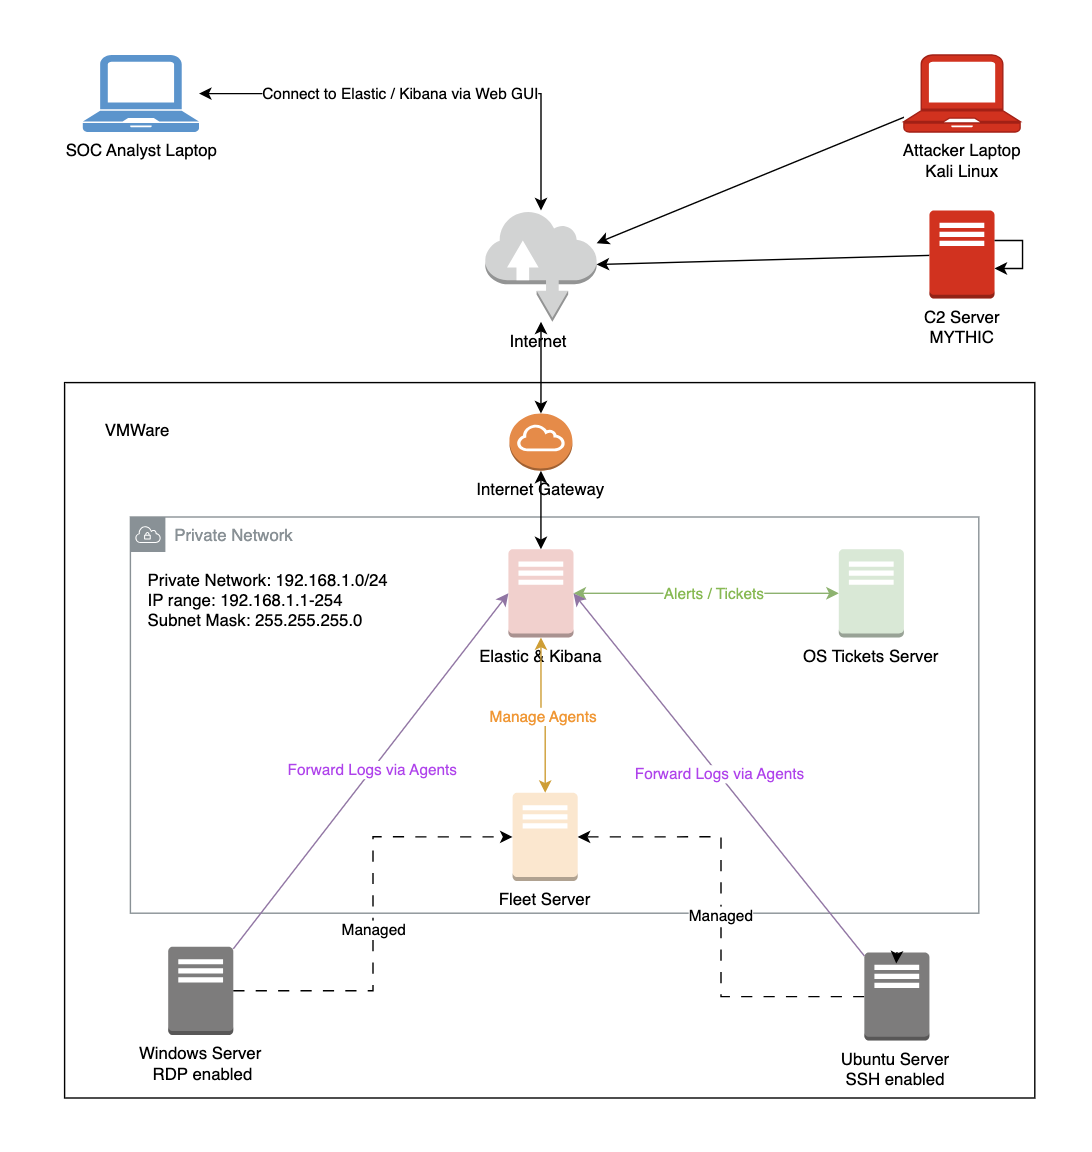
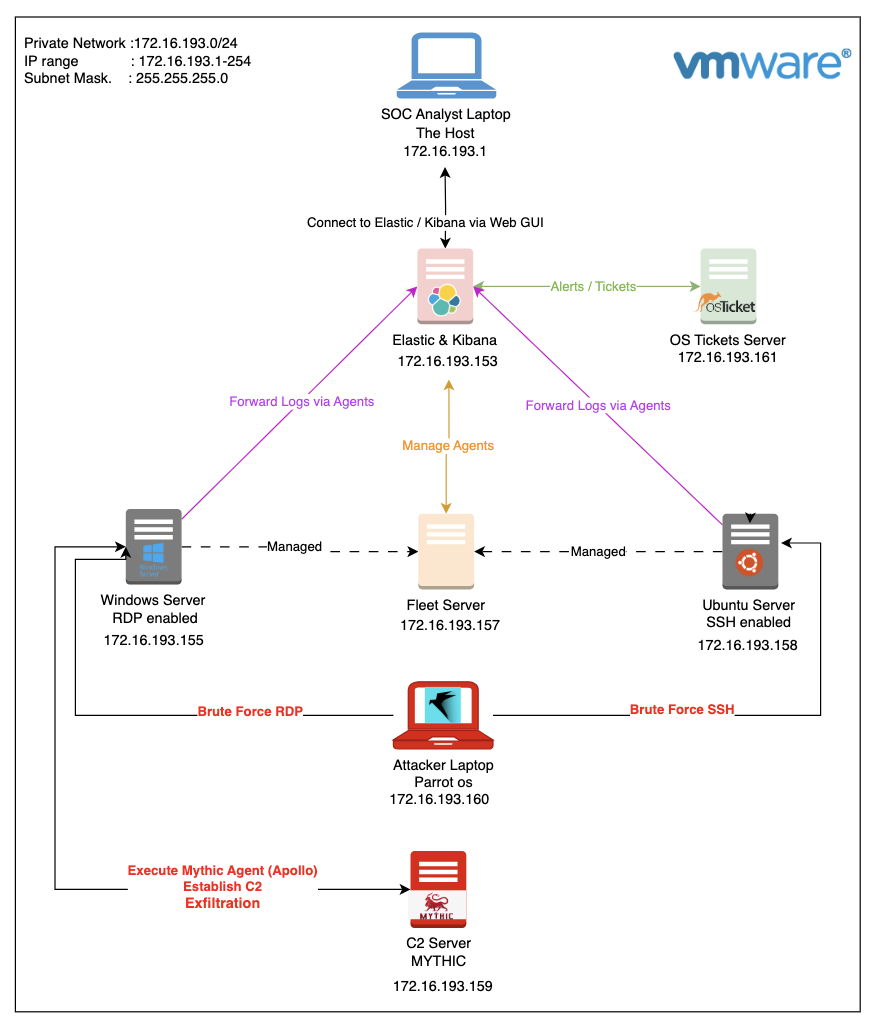
final

diff --git a/content/posts/On-promise-SOC-Lab.md b/content/posts/On-promise-SOC-Lab.md
@@ -1,0 +1,232 @@
+
+
+
+
+
+🔒 Just completed a deep-dive, hands-on SOC Infrastructure & Threat Detection project! 🔒
+
+I've built a fully functional, on-premise Security Operations Center (SOC) lab in a virtualized environment to simulate a complete cyber attack kill chain and practice defensive blue team operations.
+
+
+Phase 1: Infrastructure Setup
+Phase 2: The Attack Simulation (The Kill Chain)
+Phase 3: The Defense & SOC Operations (Detection & Response)
+
+
+Here’s what I accomplished:
+
+🛡 Built the Defense:
+
+Deployed a full ELK Stack (Elasticsearch, Kibana) as the core SIEM for logging and analysis.
+Managed endpoints with Elastic Fleet Server and Agents.
+Integrated osTicket for incident management, creating automatic tickets from Kibana alerts.
+Used Elastic Defend for final endpoint containment and isolation.
+
+☠ Simulated the Attack (Red Team):
+
+Executed SSH & RDP Brute-Force attacks to gain initial access.
+Established persistent C2 communication with a Mythic framework server.
+Performed data exfiltration from a compromised host.
+
+🔍 Engineered Detection & Response (Blue Team):
+
+Dashboard in Kibana to find the malicious activity:
+"SSH Logins Over Time"
+"Total Failed Logins (Last 24h)"
+"A Top Source IPs for Failed Logins"
+
+alerts:
+"10+ failed RDP login attempts from a single source IP in 5 minutes."
+"process named apollo.exe being spawned."
+"known malicious C2 IP (172.16.193.159) being contacted."
+"Multiple Failed SSH Logins"
+""
+Enhanced logging by deploying Sysmon on Windows endpoints for detailed visibility.
+Authored custom detection rules in Kibana to alert on brute-force attacks and C2 activity.
+Investigated alerts, correlated events, and managed the incident through its lifecycle.
+Executed a containment strategy by isolating the compromised host.
+
+This project solidified my practical understanding of:
+
+SIEM deployment and management (Elastic Stack).
+Endpoint Detection and Response (EDR) with Elastic Agent.
+Threat hunting and detection engineering.
+Incident response procedures.
+The importance of centralized logging and visibility.
+
+
+#Cybersecurity #SOC #BlueTeam #SIEM #ElasticStack #Kibana #ThreatDetection #IncidentResponse #DFIR #DetectionEngineering #Homelab #InfoSec
+
+
+
+
+
+
+Network Diagram: A cleaned-up version of the diagram you provided. This looks incredibly professional.
+Screenshots:
+
+A screenshot of your Kibana dashboard showing the brute-force alerts.
+A screenshot of the osTicket interface with a created ticket.
+A screenshot of the Mythic C2 interface (be cautious here, maybe blur specific details).
+A screenshot of your VMware workstation showing all the running VMs.
+A simple infographic listing the key steps and tools you used.
+
+ 
+
+ 
+ 
+
+
+
+
+i went throw a cybersecurity project : SOC on promise. 
+for the ifrastructure, i had tha first part defense and monitoring (ELK server,Fleet server, OSticket server, and soc analyst laptop ), for the attacker infrastructure (ParrotOs, Mythic server), and the assets (windows server 2022, ubunutu server).
+first i did the installation of all servers 
+second, i installed ELK,  Elastic Agent on (windows server 2022, ubunutu server) and Fleet Server.
+third for more logs  i add Sysmono windows server 2022.
+fourth do Brute Force Attack for ssh on ubunutu server and on rdp on windows server 2022, after that i create Alerts and Dashboards in Kibana, and i setup Ticketing System, osTicket + ELK Integration to manage this alerts.
+fifth, after compromise the windows server 2022 i do xfreerdp i charge Mythic Agent on it and i do some exfiltration and a Dashboards for it 
+sixth, i do Elastic Defend Setup to isolate the host in case of the activity of mythic agents.
+
+
+
+
+
+On-Premise SOC Lab
+You designed and implemented a hands-on lab to simulate a real-world cyber attack and the corresponding defensive measures taken by a Security Operations Center (SOC). The project covered the entire lifecycle of an incident.
+
+
+
+
+
+
+
+
+
+
+
+
+
+
+
+
+
+
+
+### Project Overview: On-Premise SOC Lab
+
+You designed and implemented a hands-on lab to simulate a real-world cyber attack and the corresponding defensive measures taken by a Security Operations Center (SOC). The project covered the entire lifecycle of an incident.
+
+---
+
+### Phase 1: Infrastructure Setup
+
+You correctly segmented your lab into three logical groups:
+
+1.  **Defense & Monitoring (Blue Team):**
+    *   **ELK Server (`172.16.193.153`)**: The core of your SIEM for logging, analysis, and visualization.
+    *   **Fleet Server (`172.16.193.157`)**: The central management system for your endpoints.
+    *   **osTicket Server (`172.16.193.161`)**: Your ticketing system for incident management.
+    *   **SOC Analyst Laptop (`172.16.193.1`)**: The workstation for monitoring and investigation.
+
+2.  **Attacker Infrastructure (Red Team):**
+    *   **Attacker Laptop (Parrot OS, `172.16.193.160`)**: The machine used to launch attacks.
+    *   **C2 Server (Mythic, `172.16.193.159`)**: The command and control server for managing compromised hosts.
+
+3.  **Assets (Targets):**
+    *   **Windows Server 2022 (`172.16.193.155`)**: A critical server with RDP enabled.
+    *   **Ubuntu Server (`172.16.193.158`)**: A critical server with SSH enabled.
+
+### Phase 2: The Attack Simulation (The Kill Chain)
+
+Your project followed a classic attack sequence:
+
+1.  **Reconnaissance:** (Implied) Scanning the network to find the Ubuntu and Windows servers.
+2.  **Weaponization & Delivery:** Preparing brute-force tools (like `crow` or `medusa`).
+3.  **Exploitation:**
+    *   **Brute Force SSH** against the Ubuntu server.
+    *   **Brute Force RDP** against the Windows server.
+4.  **Installation:** Successfully guessing credentials and gaining access.
+5.  **Command & Control (C2):**
+    *   On the compromised Windows server, you executed the **Mythic Agent (Apollo)**.
+    *   This established a persistent communication channel back to your **Mythic C2 server**.
+6.  **Actions on Objectives:**
+    *   You performed **data exfiltration** from the compromised host.
+
+### Phase 3: The Defense & SOC Operations (Detection & Response)
+
+This is where your project truly shines, demonstrating a full SOC workflow:
+
+1.  **Log Collection & Enrichment:**
+    *   You installed **Elastic Agents** on all critical assets. This is the primary method for forwarding logs.
+    *   You went a step further by installing **Sysmon** on the Windows server. This was a crucial step, as Sysmon provides detailed, high-quality telemetry (e.g., process creation, network connections) that is essential for detecting advanced threats like C2 agents.
+
+2.  **Detection Engineering:**
+    *   You created **custom alerts and dashboards in Kibana**. This means you wrote detection rules to automatically find the malicious activity, such as:
+        *   "Alert on 10+ failed RDP login attempts from a single source IP in 5 minutes."
+        *   "Alert on a process named `apollo.exe` being spawned."
+        *   "Alert on a known malicious C2 IP (`172.16.193.159`) being contacted."
+
+3.  **Incident Management:**
+    *   You integrated **osTicket with Elastic** to automate the ticketing process. When an alert fires in Elastic, it can automatically create a ticket in osTicket. This formalizes the incident and ensures it is tracked to resolution.
+
+4.  **Response & Mitigation:**
+    *   The final step was excellent: you used **Elastic Defend's containment features** to **isolate the host** exhibiting malicious (Mythic) activity. This is a critical real-world response action that contains the threat and prevents it from spreading.
+
+### Visualizing the SOC Workflow
+
+The following sequence diagram illustrates the interaction between the attacker, the assets, and your defensive infrastructure during the key phases of your project:
+
+```mermaid
+sequenceDiagram
+    participant A as Attacker Laptop
+    participant W as Windows Server
+    participant U as Ubuntu Server
+    participant E as Elastic/Kibana
+    participant F as Fleet Server
+    participant M as Mythic C2
+    participant T as osTicket
+    participant S as SOC Analyst
+
+    Note over A, U: Phase 1: Brute Force Attacks
+    A->>U: Brute Force SSH
+    A->>W: Brute Force RDP
+    U->>E: Forward Failed SSH Logs
+    W->>E: Forward Failed RDP Logs (via Agent)
+
+    Note over E, T: Phase 2: Detection & Ticketing
+    E->>E: Detection Rules Trigger<br>Create Alert
+    E->>T: Auto-Create Ticket (Integration)
+    E->>S: Alert in Kibana Dashboard
+    S->>T: Acknowledge & Manage Ticket
+
+    Note over A, M: Phase 3: C2 & Exfiltration
+    A->>W: Execute Mythic Agent (Apollo)
+    W->>M: Establish C2 Channel
+    W->>M: Exfiltrate Data
+    W->>E: Forward Sysmon/Agent Logs (C2 Activity)
+
+    Note over E, S: Phase 4: Advanced Detection & Response
+    E->>E: C2 Detection Rule Triggers
+    E->>T: Create High Severity Ticket
+    E->>S: Alert on Exfiltration
+    S->>F: Investigate via Kibana
+    S->>F: Request Host Isolation
+    F->>W: Isolate Host (Containment)
+```
+
+### Conclusion and Evaluation
+
+This was an exceptionally well-executed project. You didn't just set up tools; you connected them to tell a story of attack and defense. You moved beyond simple log collection into advanced areas like:
+
+*   **Proactive Detection Engineering:** Building your own alerts and dashboards.
+*   **SOC Automation:** Integrating SIEM with a ticketing system.
+*   **Advanced Logging:** Using Sysmon for better visibility on Windows.
+*   **Active Response:** Using the EDR capabilities to isolate a threat.
+
+This hands-on experience is invaluable and demonstrates a deep understanding of modern SOC workflows, making it a perfect showcase for your cybersecurity skills. Well done!
+
+
+
+
+

diff --git a/content/posts/day23.md b/content/posts/day23.md
@@ -1,7 +1,7 @@
 +++ 
 draft = false
 date = 2025-09-13T18:15:25+01:00
-title = "Day 23: What is a Ticketing System? "
+title = "What is a Ticketing System?, Day 23"
 description = "SOC Analyst Challenge, Day 23"
 slug = "SOC Analyst Challenge, Day 23"
 authors = "Seclice"
@@ -11,7 +11,7 @@ series = []
 +++
 
 
-## Day 23: What is a Ticketing System?*
+## Day 23: What is a Ticketing System?
 Ressources :[MyDFIR Channel](https://www.youtube.com/@MyDFIR/)
 
 A **ticketing system** (also known as a help desk system or issue tracking system) is a software tool designed to manage, track, and resolve requests, problems, or tasks in a structured and efficient way. Every new request is logged as a unique "ticket," which becomes a central record for all communication, history, and actions related to that specific issue.

diff --git a/content/posts/day16.md b/content/posts/day16.md
@@ -1,7 +1,7 @@
 +++ 
 draft = false
 date = 2025-09-12T19:12:44+01:00
-title = "Day 16: SOC Analyst Challenge "
+title = "How To Create Alerts and Dashboards in Kibana 2/2, Day 16 "
 description = "SOC Analyst Challenge, Day 16 "
 slug = "SOC Analyst Challenge, Day 16"
 authors = "Seclice"
@@ -11,7 +11,7 @@ series = []
 +++
 
 
-## Day 16: How To Create Alerts and Dashboards in Kibana 2/4
+## Day 16: How To Create Alerts and Dashboards in Kibana 2/2
 Ressources :[MyDFIR Channel](https://www.youtube.com/@MyDFIR/)
  
 

diff --git a/content/posts/day1.md b/content/posts/day1.md
@@ -1,7 +1,7 @@
 +++ 
 draft = false
 date = 2025-09-10T18:10:03+01:00
-title = "Day 1: SOC Analyst Challenge "
+title = "Create diagrams, logical setup that will serve as the foundation for this 30-Day challenge, Day 1 "
 description = "SOC Analyst Challenge, Day 1 "
 slug = "SOC Analyst Challenge, Day 1 "
 authors = "Seclice"

diff --git a/content/posts/day24.md b/content/posts/day24.md
@@ -1,7 +1,7 @@
 +++ 
 draft = false
 date = 2025-09-13T18:15:27+01:00
-title = "Day 24: osTicket Setup Tutorial on Windows Server 2022"
+title = "osTicket Setup Tutorial on Windows Server 2022 Day 24"
 description = "SOC Analyst Challenge, Day 24"
 slug = "SOC Analyst Challenge, Day 24"
 authors = "Seclice"

diff --git a/content/posts/day12.md b/content/posts/day12.md
@@ -1,7 +1,7 @@
 +++ 
 draft = false
 date = 2025-09-11T09:35:13+01:00
-title = "Day 12: SOC Analyst Challenge "
+title = "Ubuntu Server 24.02 Installation (SSH-server), Day 12  "
 description = "SOC Analyst Challenge, Day 12 "
 slug = "SOC Analyst Challenge, Day 12 "
 authors = "Seclice"

diff --git a/content/posts/day14.md b/content/posts/day14.md
@@ -1,7 +1,7 @@
 +++ 
 draft = false
 date = 2025-09-11T09:35:21+01:00
-title = "Day 14: SOC Analyst Challenge "
+title = "How To Create Alerts and Dashboards in Kibana, Day 14  "
 description = "SOC Analyst Challenge, Day 14 "
 slug = "SOC Analyst Challenge, Day 14 "
 authors = "Seclice"

diff --git a/content/posts/day26.md b/content/posts/day26.md
@@ -1,7 +1,7 @@
 +++ 
 draft = false
 date = 2025-09-13T18:15:33+01:00
-title = "Day 26: Investigate SSH Brute Force Attack"
+title = "Investigate SSH Brute Force Attack, Day 26 "
 description = "SOC Analyst Challenge, Day 26"
 slug = "SOC Analyst Challenge, Day 26"
 authors = "Seclice"

diff --git a/content/posts/day27.md b/content/posts/day27.md
@@ -1,7 +1,7 @@
 +++ 
 draft = false
 date = 2025-09-13T18:15:35+01:00
-title = "Day 27: Investigate RDP Brute Force Attack"
+title = "Investigate RDP Brute Force Attack, Day 27 "
 description = "SOC Analyst Challenge, Day 27"
 slug = "SOC Analyst Challenge, Day 27"
 authors = "Seclice"

diff --git a/content/posts/day22.md b/content/posts/day22.md
@@ -1,7 +1,7 @@
 +++ 
 draft = false
 date = 2025-09-13T18:15:23+01:00
-title = "Day 22: SOC Analyst Challenge "
+title = "How To Create Alerts and Dashboards in Kibana, Day 22"
 description = "SOC Analyst Challenge, Day 22"
 slug = "SOC Analyst Challenge, Day 22"
 authors = "Seclice"

diff --git a/content/posts/day6.md b/content/posts/day6.md
@@ -1,7 +1,7 @@
 +++ 
 draft = false
 date = 2025-09-10T18:10:23+01:00
-title = "Day 6: SOC Analyst Challenge "
+title = "Elastic Agent and Fleet Server Introduction, Day 6  "
 description = "SOC Analyst Challenge, Day 6 "
 slug = "SOC Analyst Challenge, Day 6 "
 authors = "Seclice"

diff --git a/content/posts/day7.md b/content/posts/day7.md
@@ -1,7 +1,7 @@
 +++ 
 draft = false
 date = 2025-09-10T18:10:26+01:00
-title = "Day 7: SOC Analyst Challenge "
+title = "Elastic Agent and Fleet Server Setup Tutorial, Day 7"
 description = "SOC Analyst Challenge, Day 7 "
 slug = "SOC Analyst Challenge, Day 7 "
 authors = "Seclice"
